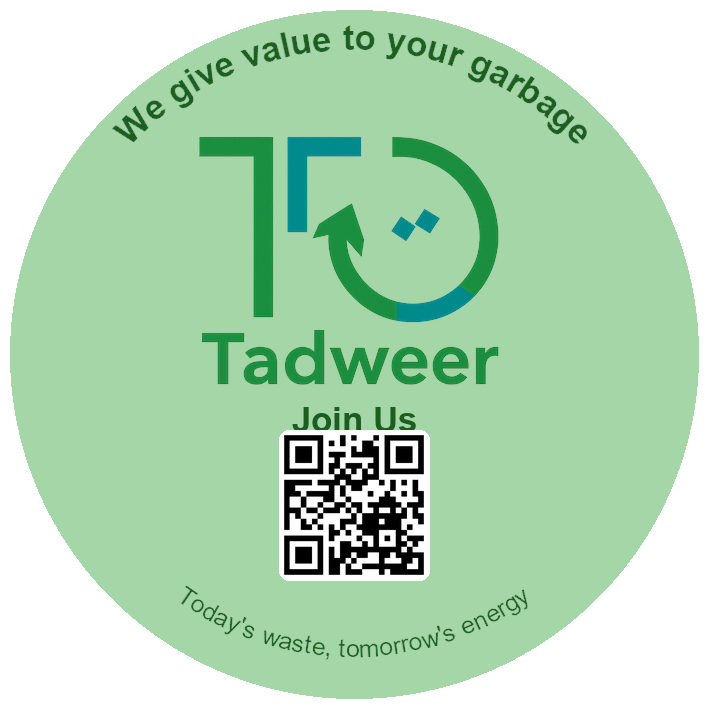
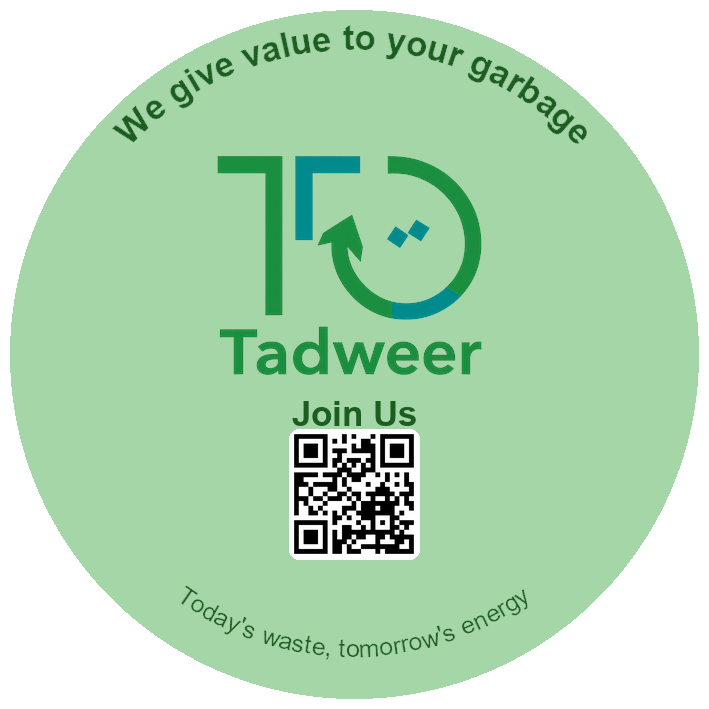
Adjust sticker spacing to prevent overlaps

Changed region(s): [[0.2793, 0.1862, 0.7137, 0.8378]]

diff --git a/tools/generate_sticker_ar.py b/tools/generate_sticker_ar.py
@@ -73,7 +73,7 @@ except:
 
 # 1. Logo (Aspect Ratio Preserved)
 logo = Image.open(logo_path).convert('RGBA')
-max_logo_size = 340 # Increased size further
+max_logo_size = 300 # Reduced to prevent overlap
 w, h = logo.size
 aspect_ratio = w / h
 
@@ -88,7 +88,7 @@ logo = logo.resize((new_w, new_h), Image.LANCZOS)
 logo_w, logo_h = logo.size
 
 # 2. QR Code
-qr_size = 140 # Increased size further
+qr_size = 120 # Reduced to prevent overlap
 qr = Image.open(qr_path).convert('RGBA')
 qr = qr.resize((qr_size, qr_size), Image.LANCZOS)
 qr_bg_padding = 5
@@ -110,8 +110,8 @@ bbox_join = draw.textbbox((0, 0), JOIN_US_TEXT, font=font_join)
 h_join = bbox_join[3] - bbox_join[1]
 w_join = bbox_join[2] - bbox_join[0]
 
-gap_logo_join = 5 # Reduced gap
-gap_join_qr = 5 # Reduced gap
+gap_logo_join = 10 # Increased gap
+gap_join_qr = 10 # Increased gap
 
 total_content_height = logo_h + gap_logo_join + h_join + gap_join_qr + qr_bg_size
 

diff --git a/tools/generate_sticker.py b/tools/generate_sticker.py
@@ -59,7 +59,7 @@ except:
 
 # 1. Logo (Aspect Ratio Preserved)
 logo = Image.open(logo_path).convert('RGBA')
-max_logo_size = 340 # Increased size further
+max_logo_size = 300 # Reduced to prevent overlap
 w, h = logo.size
 aspect_ratio = w / h
 
@@ -74,7 +74,7 @@ logo = logo.resize((new_w, new_h), Image.LANCZOS)
 logo_w, logo_h = logo.size
 
 # 2. QR Code
-qr_size = 140 # Increased size further
+qr_size = 120 # Reduced to prevent overlap
 qr = Image.open(qr_path).convert('RGBA')
 qr = qr.resize((qr_size, qr_size), Image.LANCZOS)
 qr_bg_padding = 5
@@ -96,8 +96,8 @@ bbox_join = draw.textbbox((0, 0), JOIN_US_TEXT, font=font_join)
 h_join = bbox_join[3] - bbox_join[1]
 w_join = bbox_join[2] - bbox_join[0]
 
-gap_logo_join = 5 # Reduced gap
-gap_join_qr = 5 # Reduced gap
+gap_logo_join = 10 # Increased gap
+gap_join_qr = 10 # Increased gap
 
 total_content_height = logo_h + gap_logo_join + h_join + gap_join_qr + qr_bg_size
 
